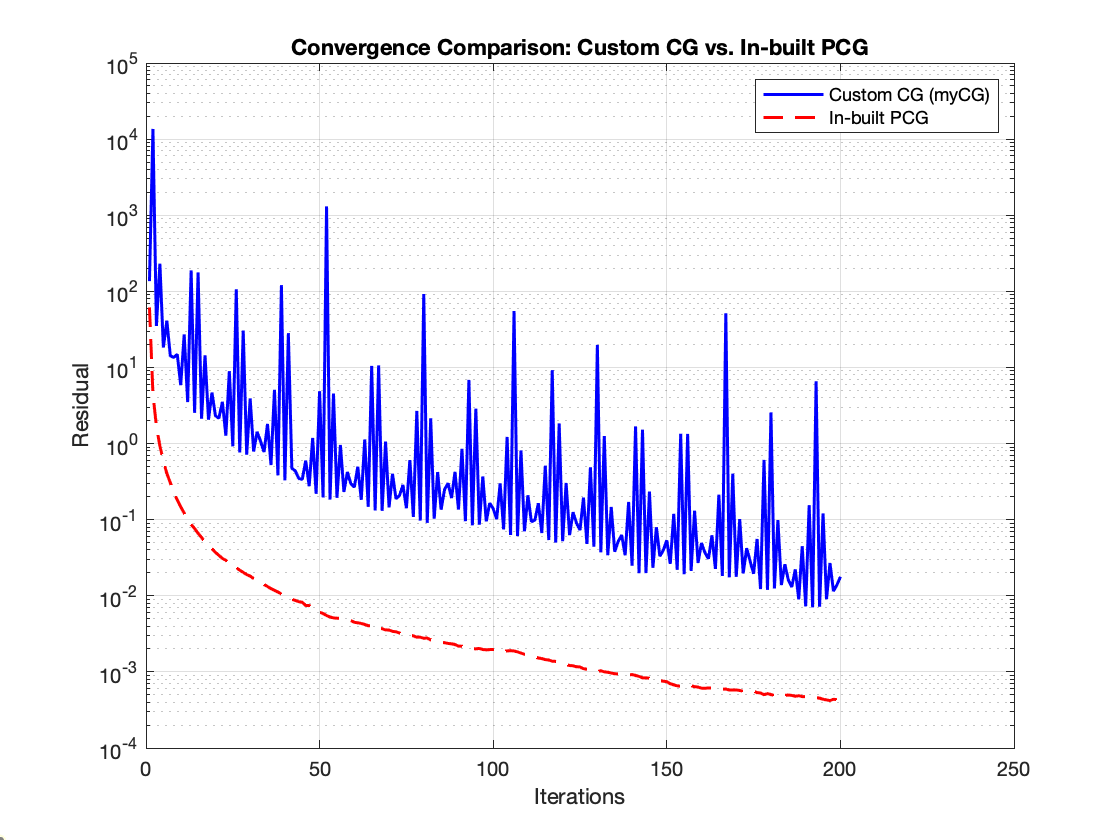
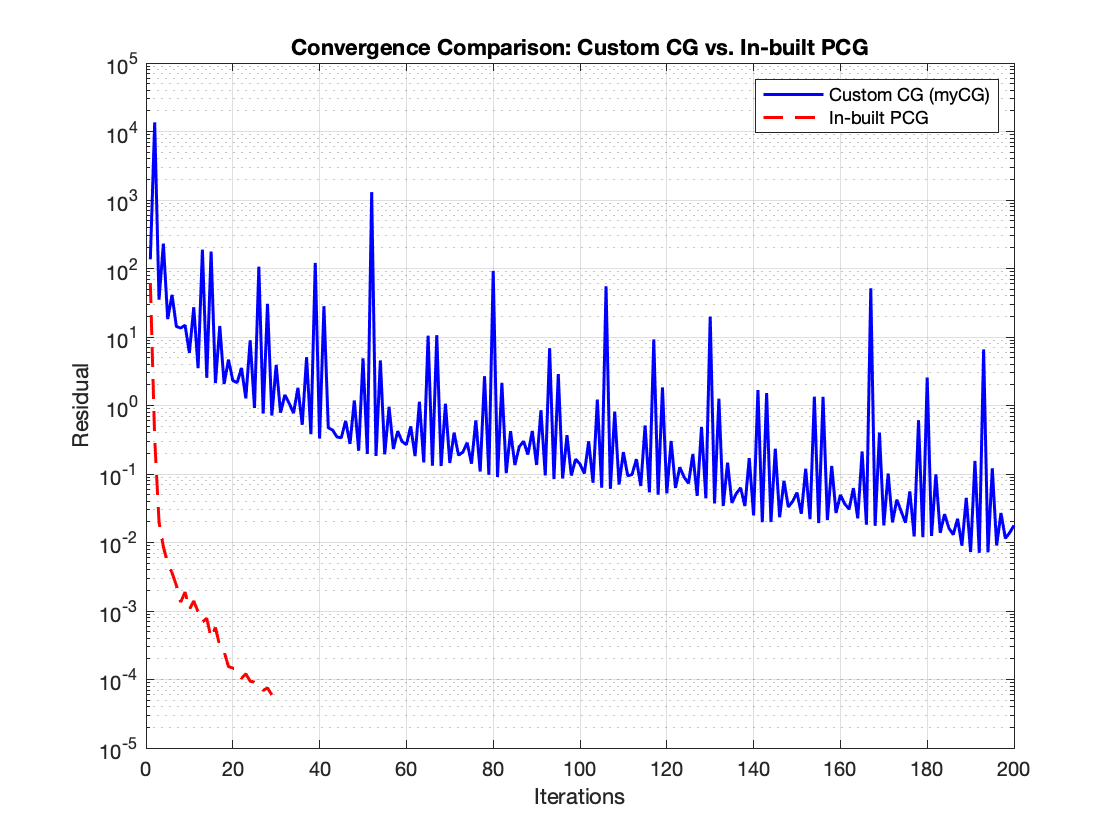
ex4 fix

diff --git a/project_4/ex4.m b/project_4/ex4.m
@@ -16,13 +16,12 @@ options.diagcomp = alpha;
 height_A = transpose(A) * A;
 height_B = transpose(A) * b;
 Q = ichol(height_A, options);
-P = transpose(Q) * Q;
 
 % custom myCG
 [x_myCG, rvec_myCG] = myCG(A, b, guess, max_itr, tol);
 
 % PCG
-[x_pcg, ~, ~, iter, rvec_pcg] = pcg(height_A, height_B, tol, max_itr);
+[x_pcg, ~, ~, iter, rvec_pcg] = pcg(height_A, height_B, tol, max_itr, Q, Q');
 
 figure;
 imagesc(reshape(img, [height, height]));
